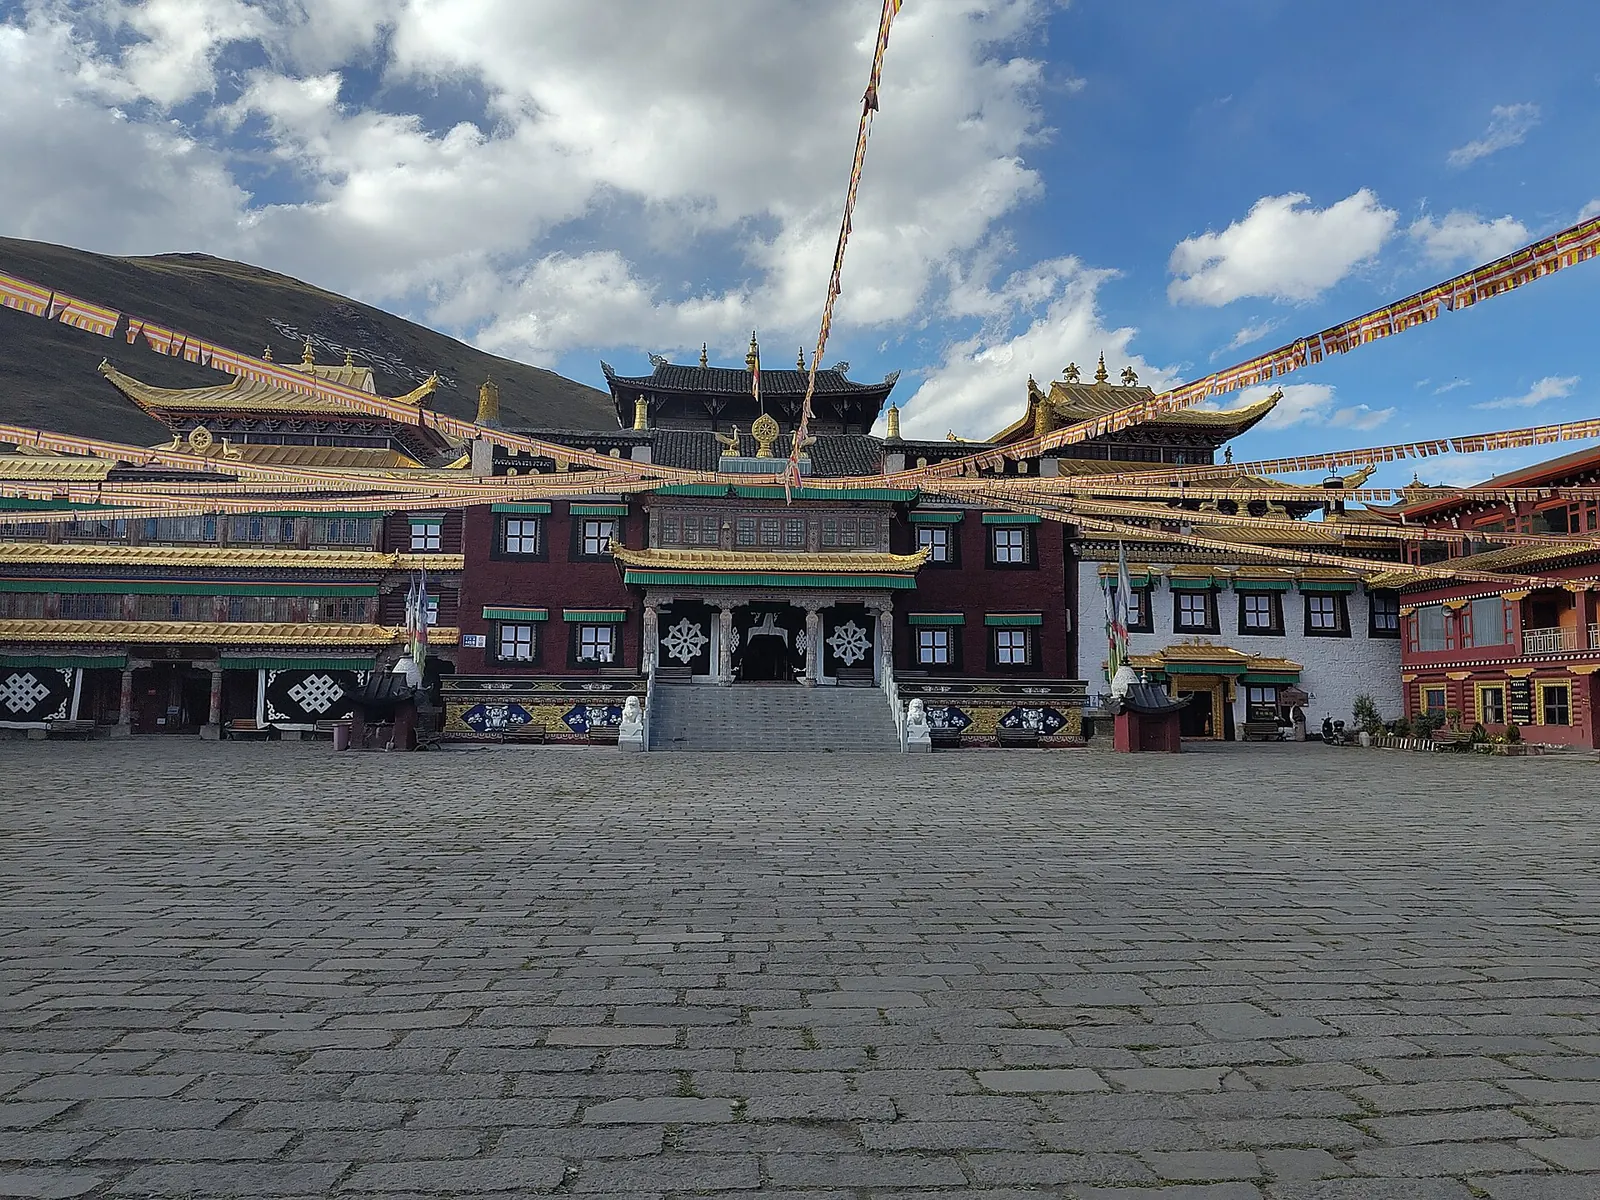
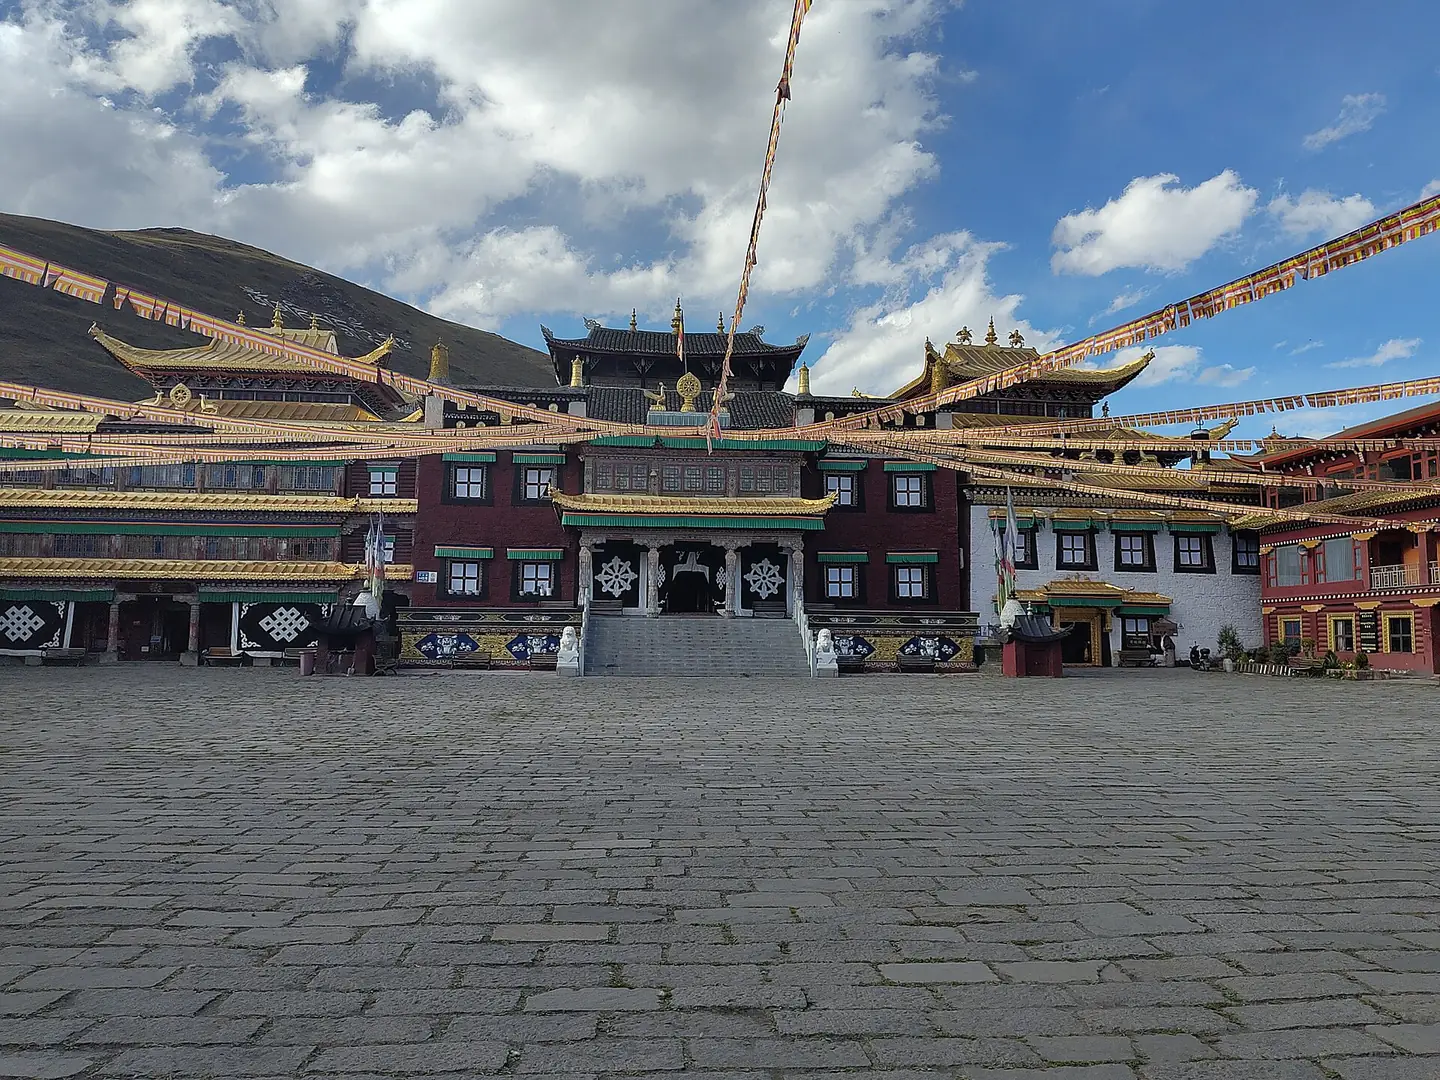
Optimize mobile travel photos

diff --git a/sw.js b/sw.js
@@ -1,4 +1,4 @@
-const CACHE_NAME = "tagong-roadtrip-shell-v2";
+const CACHE_NAME = "tagong-roadtrip-shell-v3";
 const CORE_ASSETS = [
   "./",
   "./index.html",
